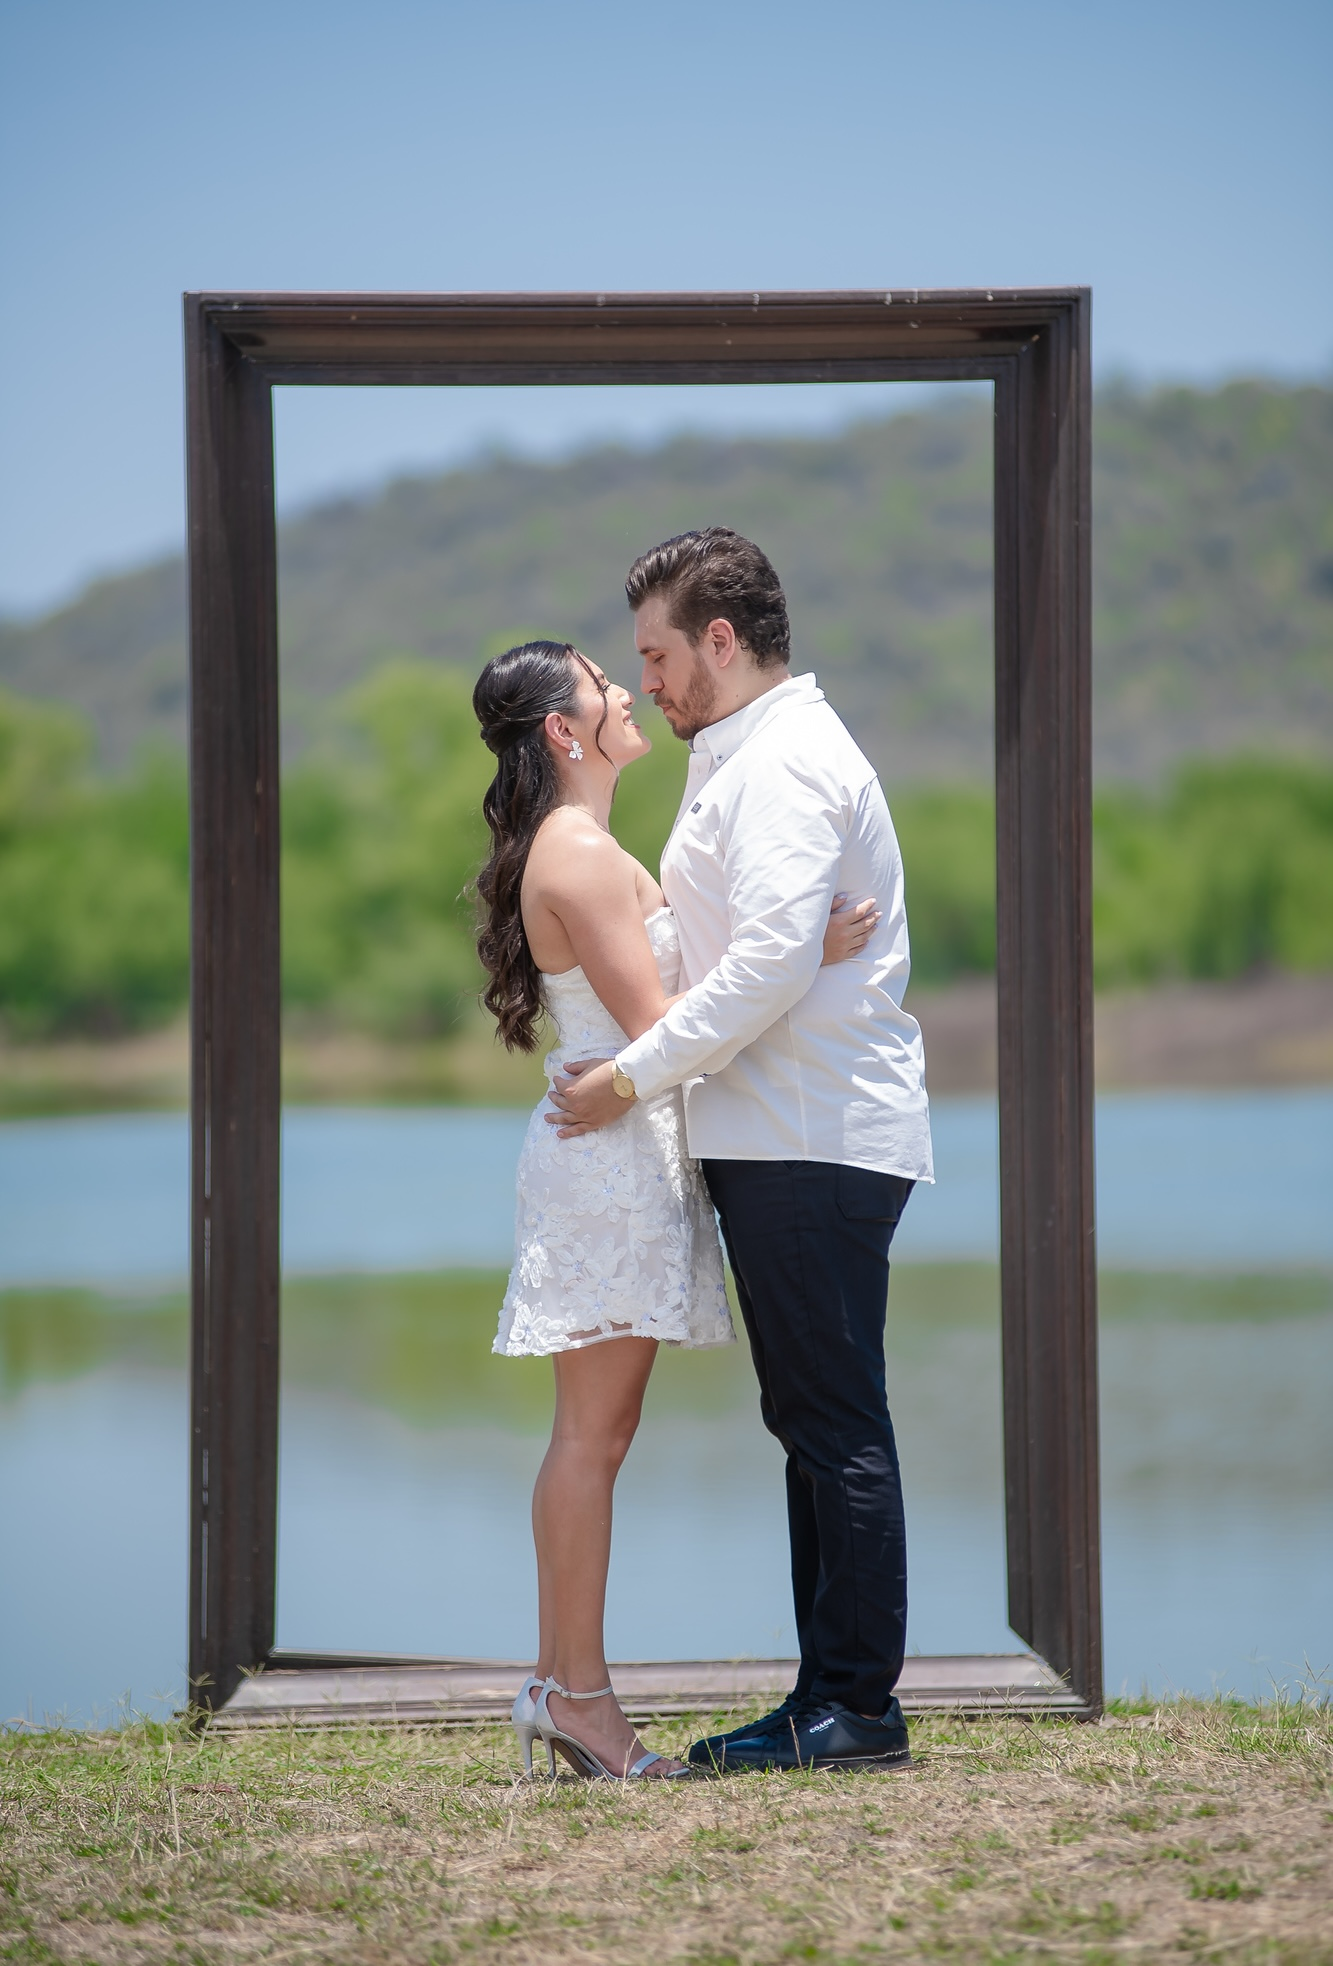
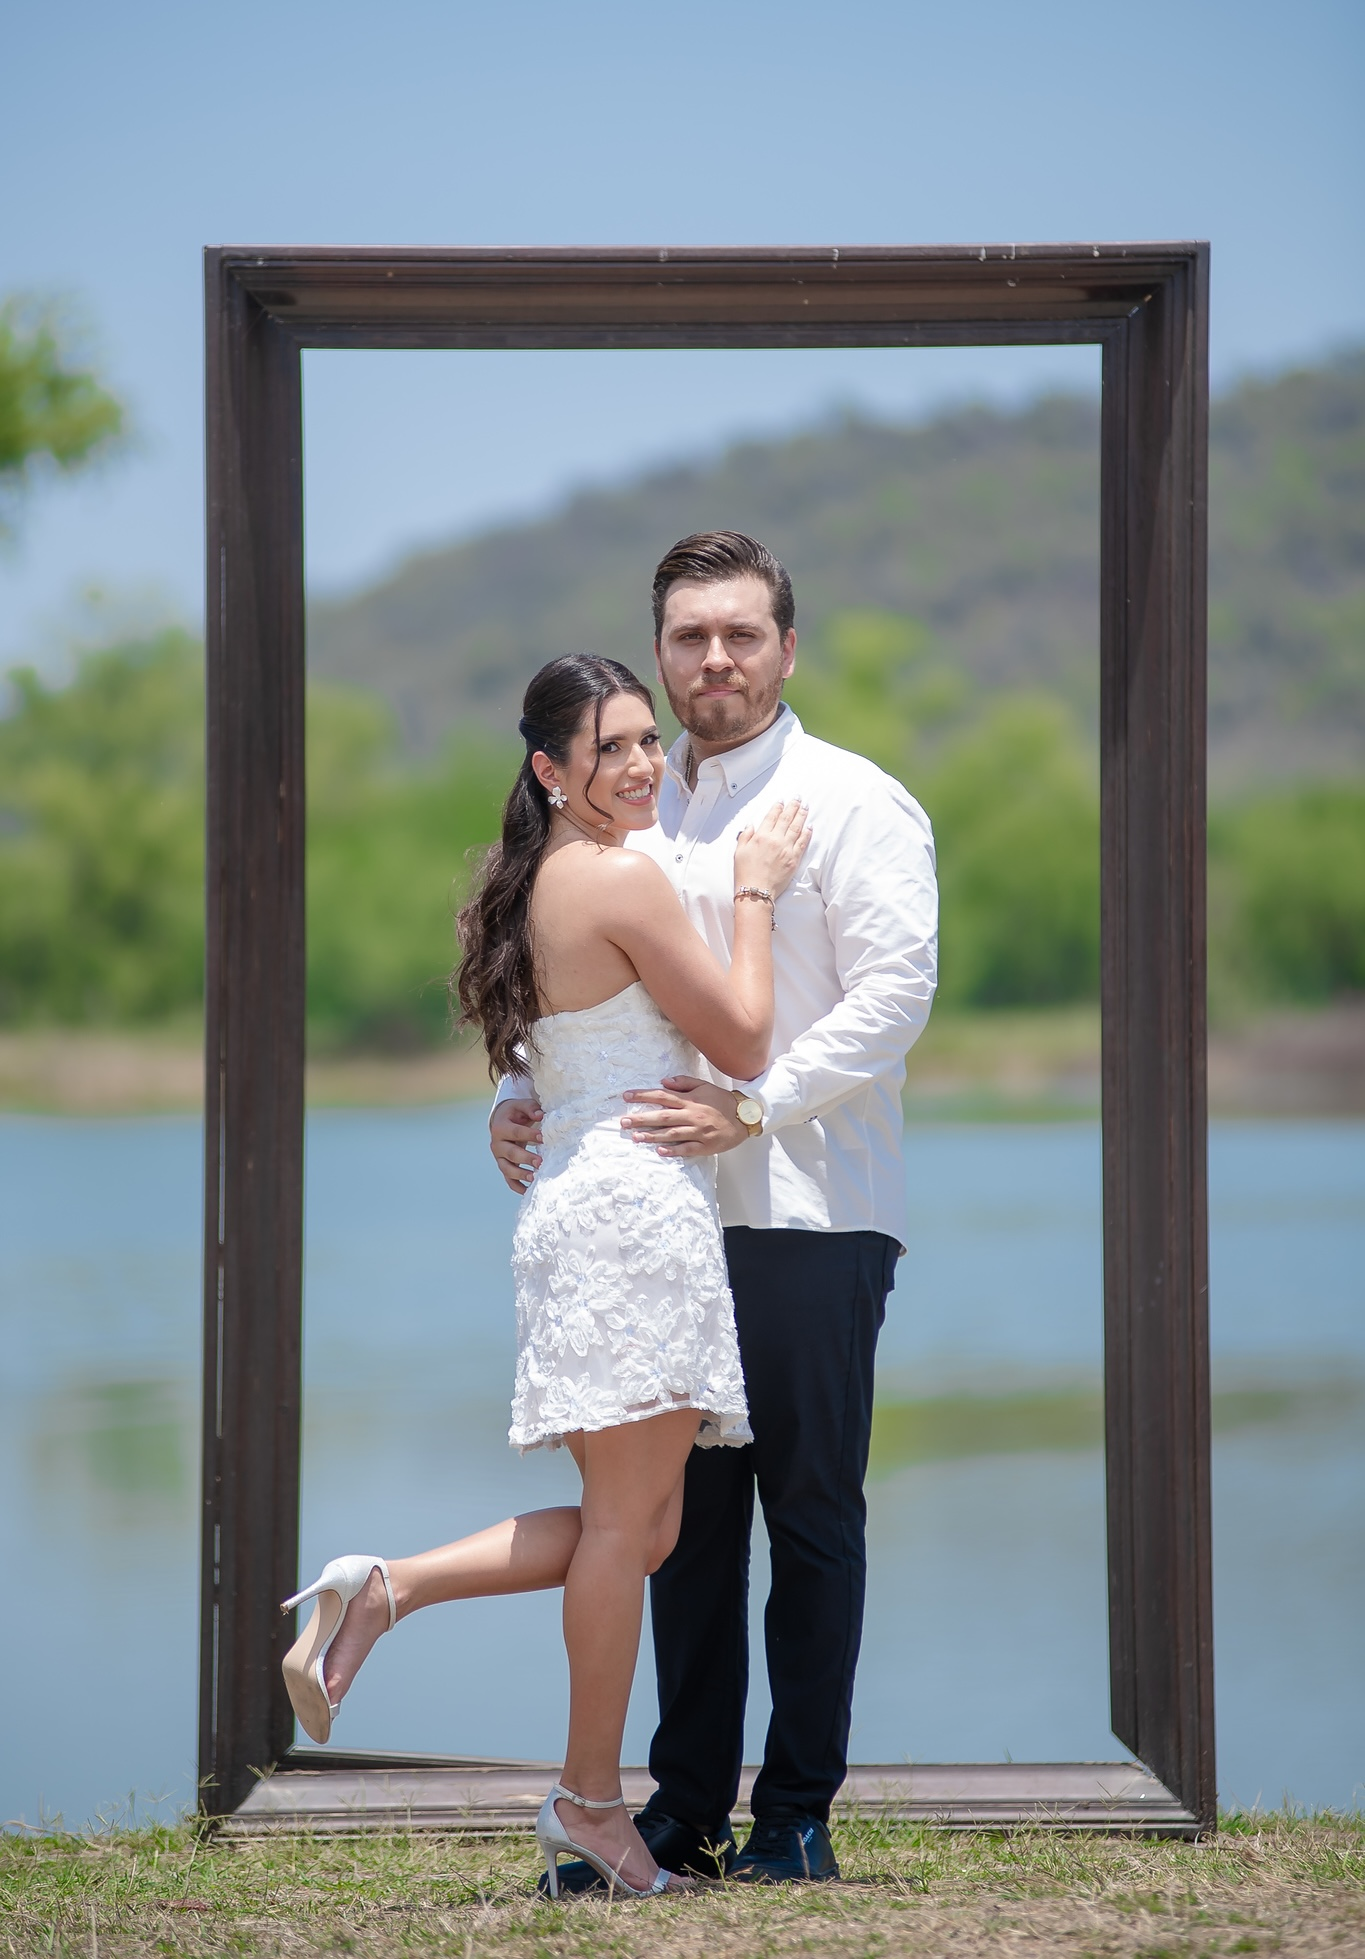
Update main image

diff --git a/src/app/_components/ceremonies/ceremoniesSection.tsx b/src/app/_components/ceremonies/ceremoniesSection.tsx
@@ -18,7 +18,7 @@ const CeremoniesSection = () => {
                     iconDescription="4:30 PM"
                 />
                 <EventBlock
-                    title="Fiesta"
+                    title="Recepción"
                     description={[
                         "El Ejecutivo Eventos",
                         "Río Danubio 395-B-Ote., Del Valle, 66220",
